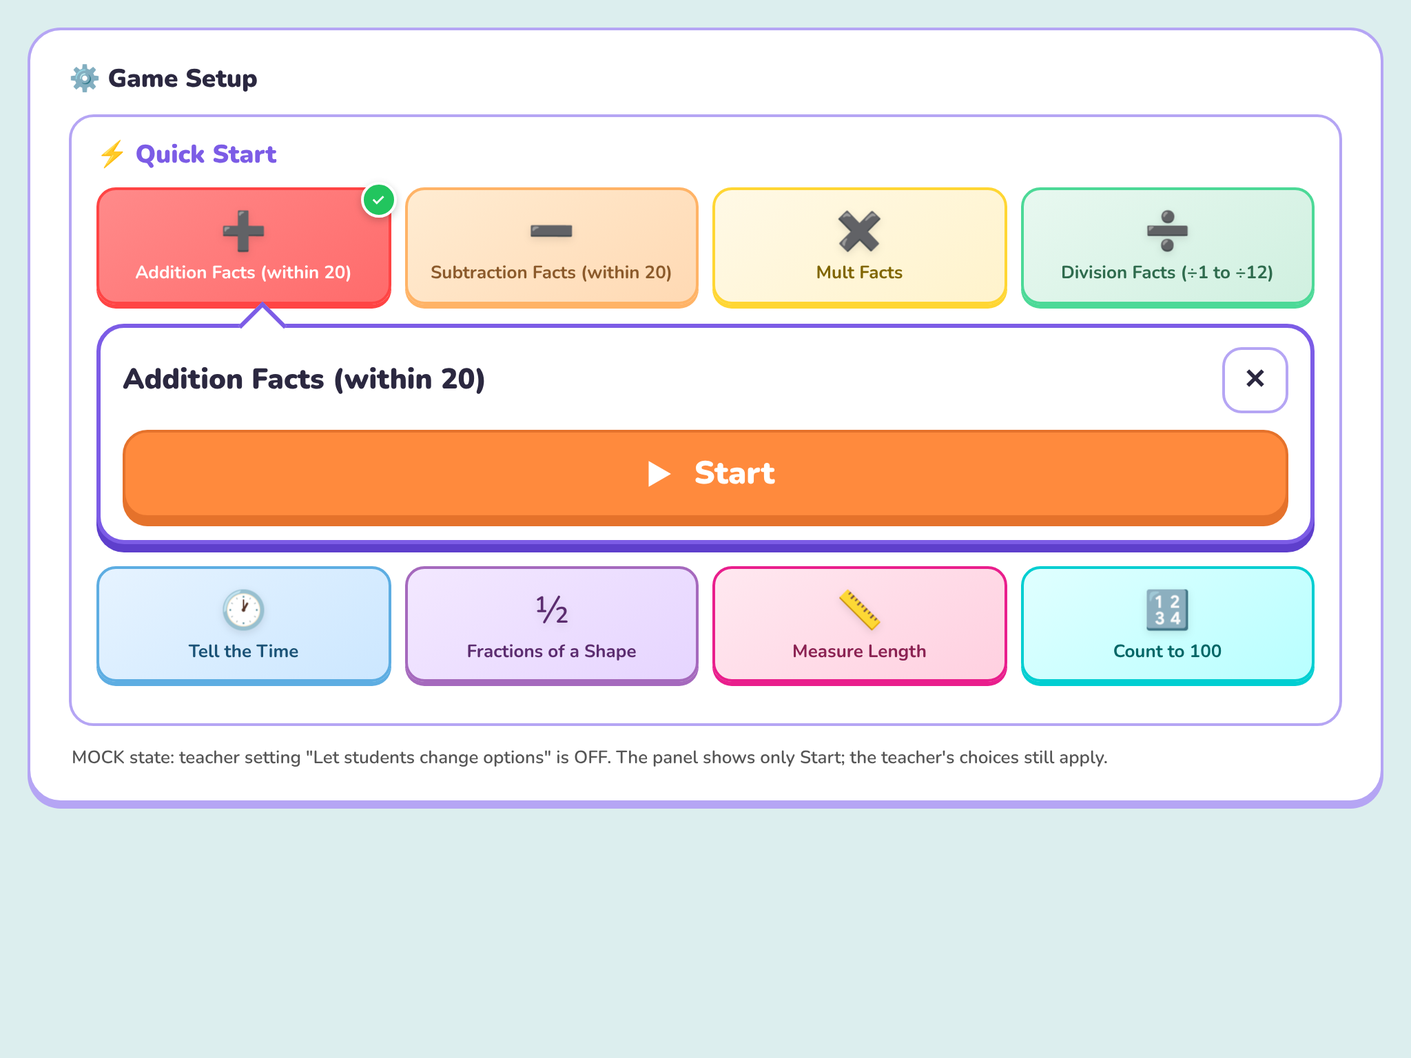
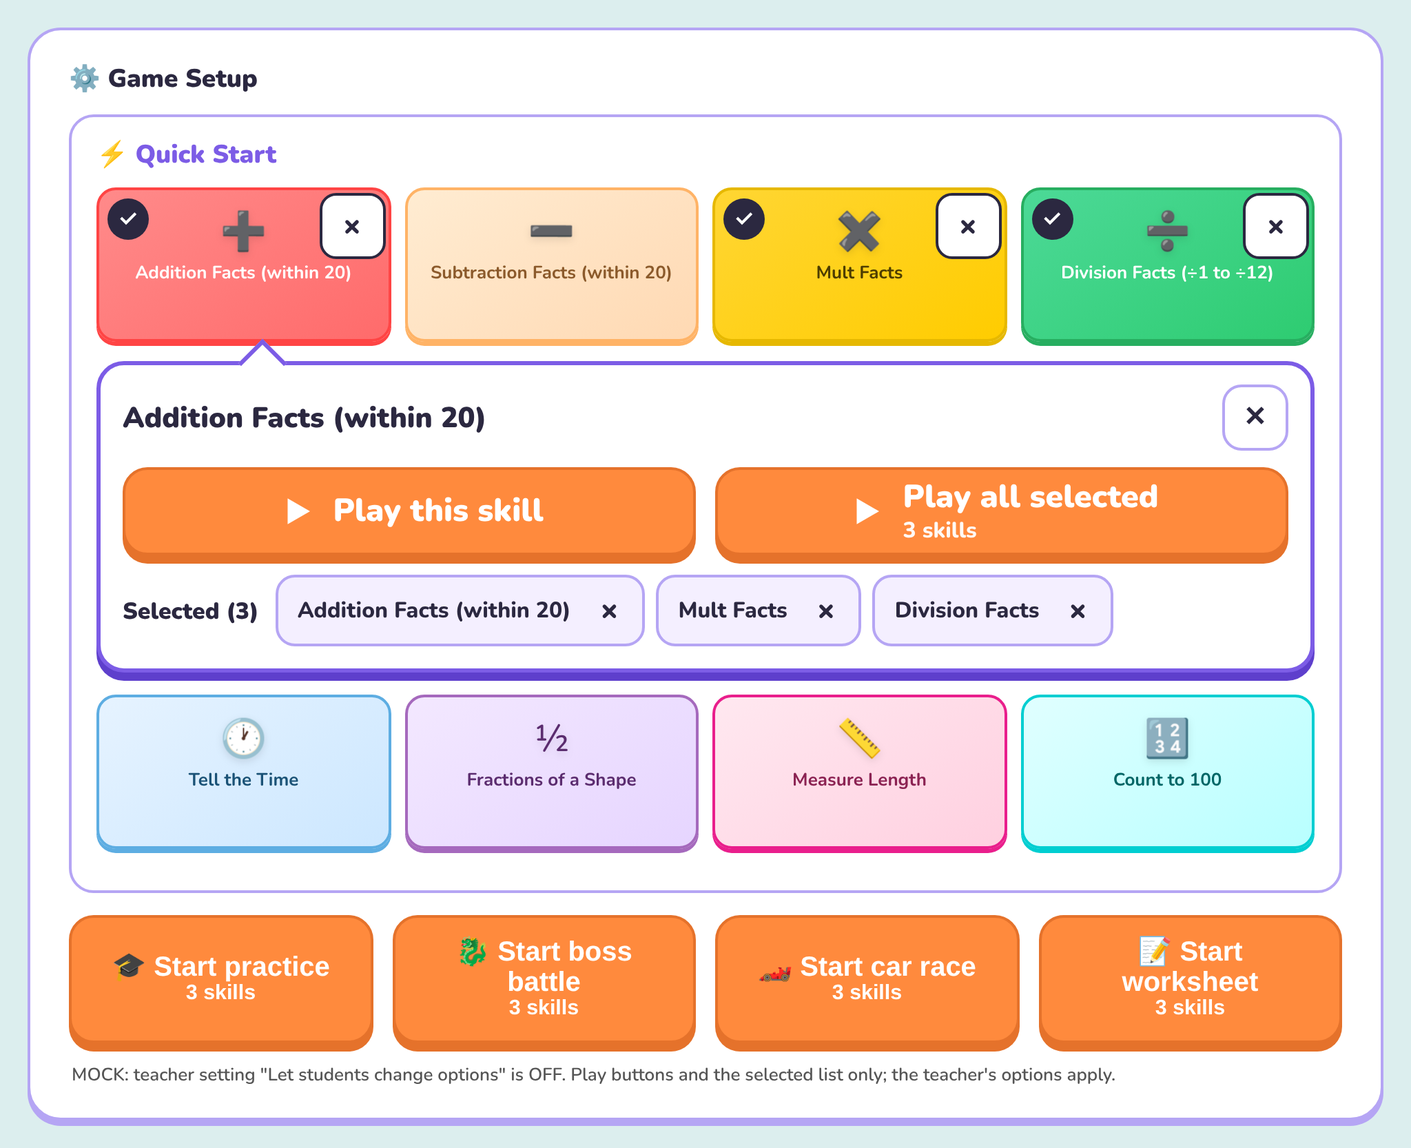
design(student-options): owner rulings 2026-11-14, two Play buttons, folded options
Card records the rulings (Play this skill / Play all selected with N, per-skill
options, easy deselect via card and list, mode buttons show N skills; options
folded by default) and drops the answered question. Mock and PNGs re-shot
(folded, expanded, setting off at 1024 and 1366).

Claude-Session: https://claude.ai/code/session_013pHDnLVzZVKhyoyiPRYBZA

diff --git a/design/status/lf-checks/student-options/mock.html b/design/status/lf-checks/student-options/mock.html
@@ -7,7 +7,7 @@
 <!-- DESIGN MOCK (lf-tools-stuopts, 2026-11-14). Static: it links the app's real stylesheets for the student home
      (brand, variables, base, role-toggle, ui-components, Andika, screen-cell) and adds the proposed .stu-sko rules
      inline below, scoped and additive. The skill is the real addition:add_facts and its real option values
-     (skill-options.js L1065). States: #open (default), #collapsed, #off, #none.  Card: design/cards/student-options/student-options.md -->
+     (skill-options.js L1065). States: #folded (default), #expanded, #off, #none. Three skills are selected (owner rulings 2026-11-14).  Card: design/cards/student-options/student-options.md -->
 <link href="https://fonts.googleapis.com/css2?family=Nunito:wght@400;600;700;800;900&display=swap" rel="stylesheet">
 <link rel="stylesheet" href="../../../../css/brand.css">
 <link rel="stylesheet" href="../../../../css/variables.css">
@@ -42,6 +42,23 @@ body { padding: 20px; }
   border-radius: 18px; box-shadow: 0 6px 0 0 var(--mq-orange-d); cursor: pointer; }
 .stu-sko-start svg { width: 30px; height: 30px; }
 .stu-sko-start:active { transform: translateY(3px); box-shadow: 0 3px 0 0 var(--mq-orange-d); }
+.stu-sko-plays { display: grid; grid-template-columns: 1fr 1fr; gap: 14px; }
+.stu-sko-start { flex-direction: row; }
+.stu-sko-start .sub { display: block; font-size: 1rem; font-weight: 800; opacity: .95; margin-top: 4px; }
+.stu-sko-start .txt { display: flex; flex-direction: column; align-items: flex-start; }
+.stu-sko-sel { display: flex; flex-wrap: wrap; align-items: center; gap: 8px; margin-top: 14px; }
+.stu-sko-sel-h { font-weight: 900; font-size: 1.05rem; margin-right: 4px; }
+.stu-sko-pill { display: inline-flex; align-items: center; gap: 4px; min-height: 48px; padding: 0 0 0 14px; border-radius: 14px;
+  border: 2px solid var(--mq-purple-l); background: var(--mq-purple-soft); font: 800 1rem Nunito, sans-serif; color: var(--mq-ink); }
+.stu-sko-pill button, .qs-x { width: 48px; height: 48px; border: 0; background: transparent; font: 900 1.4rem/1 Nunito, sans-serif; color: var(--mq-ink); cursor: pointer; border-radius: 12px; }
+.qs-x { position: absolute; top: 2px; right: 2px; background: #fff; border: 2px solid var(--mq-ink); z-index: 7; }
+.qs-tick { position: absolute; top: 6px; left: 6px; width: 30px; height: 30px; border-radius: 50%; background: var(--mq-ink); color: #fff;
+  font: 900 1rem/30px Nunito, sans-serif; text-align: center; z-index: 7; }
+.mock-qs .quick-skill-card.selected::after { display: none; }
+.mock-qs .quick-skill-card { min-height: 112px; }
+.mock-modes { display: flex; gap: 14px; margin-top: 16px; flex-wrap: wrap; }
+.mock-modes .student-start-btn { flex: 1 1 200px; max-width: none; display: flex; flex-direction: column; align-items: center; justify-content: center; line-height: 1.1; }
+.mock-modes .student-start-btn small { font-size: .95rem; font-weight: 800; }
 .stu-sko-more { display: flex; align-items: center; gap: 12px; width: 100%; min-height: 56px; margin-top: 16px; padding: 8px 16px;
   background: var(--mq-purple-soft); border: 2px solid var(--mq-purple-l); border-radius: 14px; cursor: pointer;
   font: 800 1.1rem/1.2 Nunito, sans-serif; color: var(--mq-ink); text-align: left; }
@@ -76,17 +93,26 @@ body { padding: 20px; }
     <div class="mock-qs">
       <p class="mock-qs-h">&#9889; Quick Start</p>
       <div id="quickSkillsGrid" class="quick-skills-grid">
-        <div class="quick-skill-card pastel-coral selected" aria-expanded="true" aria-controls="stuSko" id="card0" role="button" tabindex="0"><span class="skill-icon">&#10133;</span><span class="skill-name"><span class="qs-name-text">Addition Facts (within 20)</span></span></div>
+        <div class="quick-skill-card pastel-coral selected" aria-expanded="true" aria-controls="stuSko" id="card0" role="button" tabindex="0"><span class="qs-tick" aria-hidden="true">&#10003;</span><button type="button" class="qs-x" aria-label="Remove Addition Facts">&times;</button><span class="skill-icon">&#10133;</span><span class="skill-name"><span class="qs-name-text">Addition Facts (within 20)</span></span></div>
         <div class="quick-skill-card pastel-peach" role="button" tabindex="0" aria-expanded="false"><span class="skill-icon">&#10134;</span><span class="skill-name"><span class="qs-name-text">Subtraction Facts (within 20)</span></span></div>
-        <div class="quick-skill-card pastel-lemon" role="button" tabindex="0" aria-expanded="false"><span class="skill-icon">&#10006;&#65039;</span><span class="skill-name"><span class="qs-name-text">Mult Facts</span></span></div>
-        <div class="quick-skill-card pastel-mint" role="button" tabindex="0" aria-expanded="false" id="card3"><span class="skill-icon">&#10135;</span><span class="skill-name"><span class="qs-name-text">Division Facts (&divide;1 to &divide;12)</span></span></div>
+        <div class="quick-skill-card pastel-lemon selected" role="button" tabindex="0" aria-expanded="false"><span class="qs-tick" aria-hidden="true">&#10003;</span><button type="button" class="qs-x" aria-label="Remove Mult Facts">&times;</button><span class="skill-icon">&#10006;&#65039;</span><span class="skill-name"><span class="qs-name-text">Mult Facts</span></span></div>
+        <div class="quick-skill-card pastel-mint selected" role="button" tabindex="0" aria-expanded="false" id="card3"><span class="qs-tick" aria-hidden="true">&#10003;</span><button type="button" class="qs-x" aria-label="Remove Division Facts">&times;</button><span class="skill-icon">&#10135;</span><span class="skill-name"><span class="qs-name-text">Division Facts (&divide;1 to &divide;12)</span></span></div>
 
         <section class="stu-sko" id="stuSko" role="region" aria-labelledby="stuSkoTitle">
           <div class="stu-sko-head">
             <h3 class="stu-sko-title" id="stuSkoTitle">Addition Facts (within 20)</h3>
             <button type="button" class="stu-sko-x" aria-label="Close">&times;</button>
           </div>
-          <button type="button" class="stu-sko-start"><svg viewBox="0 0 24 24" fill="currentColor" aria-hidden="true"><path d="M7 4.5v15l13-7.5z"/></svg>Start</button>
+          <div class="stu-sko-plays">
+            <button type="button" class="stu-sko-start" id="playOne"><svg viewBox="0 0 24 24" fill="currentColor" aria-hidden="true"><path d="M7 4.5v15l13-7.5z"/></svg><span class="txt">Play this skill</span></button>
+            <button type="button" class="stu-sko-start" id="playAll"><svg viewBox="0 0 24 24" fill="currentColor" aria-hidden="true"><path d="M7 4.5v15l13-7.5z"/></svg><span class="txt">Play all selected<span class="sub">3 skills</span></span></button>
+          </div>
+          <div class="stu-sko-sel" role="group" aria-label="Selected skills">
+            <span class="stu-sko-sel-h">Selected (3)</span>
+            <span class="stu-sko-pill">Addition Facts (within 20)<button type="button" aria-label="Remove Addition Facts">&times;</button></span>
+            <span class="stu-sko-pill">Mult Facts<button type="button" aria-label="Remove Mult Facts">&times;</button></span>
+            <span class="stu-sko-pill">Division Facts<button type="button" aria-label="Remove Division Facts">&times;</button></span>
+          </div>
 
           <div id="stuSkoOpts">
             <button type="button" class="stu-sko-more" id="stuSkoMore" aria-expanded="true" aria-controls="stuSkoBody">
@@ -132,25 +158,26 @@ body { padding: 20px; }
         <div class="quick-skill-card pastel-aqua" role="button" tabindex="0" aria-expanded="false"><span class="skill-icon">&#128290;</span><span class="skill-name"><span class="qs-name-text">Count to 100</span></span></div>
       </div>
     </div>
+    <div class="mock-modes" role="group" aria-label="Start">
+      <button type="button" class="student-start-btn">&#127891; Start practice<small>3 skills</small></button>
+      <button type="button" class="student-start-btn">&#128009; Start boss battle<small>3 skills</small></button>
+      <button type="button" class="student-start-btn">&#127950;&#65039; Start car race<small>3 skills</small></button>
+      <button type="button" class="student-start-btn">&#128221; Start worksheet<small>3 skills</small></button>
+    </div>
     <p class="mock-note" id="mockNote"></p>
   </div>
 </div>
 <script>
 // Mock state switcher only. #open | #collapsed | #off | #none
 (function () {
-  var s = (location.hash || '#open').slice(1);
+  var st = (location.hash || '#folded').slice(1);
   var more = document.getElementById('stuSkoMore'), body = document.getElementById('stuSkoBody');
   var note = document.getElementById('mockNote');
-  if (s === 'collapsed') { more.setAttribute('aria-expanded', 'false'); body.hidden = true; note.textContent = 'MOCK state: collapsed (the default each time the panel opens). Start is first; the summary line says what is set.'; }
-  else if (s === 'off') { document.getElementById('stuSkoOpts').hidden = true; note.textContent = 'MOCK state: teacher setting "Let students change options" is OFF. The panel shows only Start; the teacher\'s choices still apply.'; }
-  else if (s === 'none') {
-    document.getElementById('stuSkoOpts').hidden = true;
-    document.getElementById('stuSkoTitle').textContent = 'Division Facts (÷1 to ÷12)';
-    document.getElementById('stuSko').style.setProperty('--caret', '86%');
-    document.getElementById('card0').classList.remove('selected'); document.getElementById('card3').classList.add('selected');
-    note.textContent = 'MOCK state: a skill with no pupil options (layout shown on the Division card for illustration only; division facts does have options). Same panel, Start only.';
-  }
-  else note.textContent = 'MOCK state: open, options expanded. Pupil chose Add 7 and 8. Every target is 48 px or more.';
+  function fold() { more.setAttribute('aria-expanded', 'false'); body.hidden = true; }
+  if (st === 'expanded') note.textContent = 'MOCK: options expanded after "Change it". This skill: Add 7 and 8. Each selected skill keeps its own options.';
+  else if (st === 'off') { document.getElementById('stuSkoOpts').hidden = true; note.textContent = 'MOCK: teacher setting "Let students change options" is OFF. Play buttons and the selected list only; the teacher\'s options apply.'; }
+  else if (st === 'none') { document.getElementById('stuSkoOpts').hidden = true; note.textContent = 'MOCK: a skill with no pupil options (illustrated on Addition Facts, which does have options). Play buttons only.'; }
+  else { fold(); note.textContent = 'MOCK: folded (the default each time the panel opens). Three skills selected; tap \u2715 on a card or in the list to remove one. Every target is 48 px or more.'; }
 })();
 </script>
 </body>

diff --git a/design/cards/student-options/student-options.md b/design/cards/student-options/student-options.md
@@ -2,8 +2,15 @@
 
 Lane `lf-tools-stuopts` · step: DESIGN ONLY (no feature code) · 2026-11-14 · Opus medium (first build of a new screen part).
 Status: **unsigned**. A build starts only after the owner signs (CLAUDE.md, cards README).
-Mock: `design/status/lf-checks/student-options/mock.html` (`#open`, `#collapsed`, `#off`, `#none`), screenshots
-`open|collapsed|off-1024.png` and `-1366.png` beside it (768 px tall, deviceScaleFactor 2).
+Mock: `design/status/lf-checks/student-options/mock.html` (`#folded`, `#expanded`, `#off`, `#none`), screenshots
+`folded|expanded|off-1024.png` and `-1366.png` beside it (768 px wide viewport height, full page, deviceScaleFactor 2).
+
+## 0. Owner rulings
+
+| Date | Ruling |
+|---|---|
+| 2026-11-14 | **Two Play buttons.** The panel offers "▶ Play this skill" and "▶ Play all selected (N skills)" with the count. Each selected skill carries its own chosen options. Deselecting must be easy: a visible ✓ / ✕ on each selected skill card, plus a list of the N selected skills, each with ✕. The game-style buttons (Practice / Boss / Race / Worksheet) also play ALL selected skills, each with its own options, and show "N skills". |
+| 2026-11-14 | **Options start FOLDED** behind the summary line every time the panel opens. |
 
 ## 1. Owner request
 
@@ -29,10 +36,14 @@ The panel is a full-width row inserted **in the grid, directly after the row hol
 (`grid-column: 1 / -1`), with a caret pointing at that card. One panel open at a time.
 
 1. **Head**: the skill's pupil name (`qsPupilName`, 1.3rem / 900 Nunito), and a Close button (48 × 48, `×`).
-2. **Start** (the primary action, always first): full width, 72 px tall at 1366, 64 px at 1024, orange
-   (`--mq-orange`, 6 px `--mq-orange-d` press shadow, the existing `.student-start-btn` look), "▶ Start".
-   Plays **this skill** in the pupil's mode (practice) with the options shown.
-3. **"Change it" disclosure** (only when options are allowed AND the skill offers pupil options): a 56 px bar
+2. **Two Play buttons** (the primary actions, always first; owner 2026-11-14), side by side at 1024 and 1366,
+   each ≥ 72 px tall, orange (`--mq-orange`, 6 px `--mq-orange-d` press shadow, the `.student-start-btn` look):
+   - **"▶ Play this skill"**: plays the tapped skill alone, with its options;
+   - **"▶ Play all selected"** with a sub-line **"N skills"**: plays every selected skill, each with its own options.
+     Shown only when N ≥ 2 (with N = 1 it is the same as the first button). Both play practice mode.
+2b. **Selected list** (when N ≥ 2): "Selected (N)" then one chip per selected skill, its pupil name and a ✕ button
+   (48 × 48, `aria-label="Remove <name>"`). ✕ deselects the skill (the queue entry and the card update together).
+3. **"Change it" disclosure, FOLDED by default** (owner 2026-11-14) (only when options are allowed AND the skill offers pupil options): a 56 px bar
    with ⚙, "Change it", the one-line summary from `describeOptions` ("Add 7, 8 · Facts to 20 · Stacked"), and a
    chevron. `aria-expanded` / `aria-controls`.
 4. **Option rows** (inside the disclosure): label (1.1rem / 900) over a row of **chips**. Number values are in
@@ -45,6 +56,11 @@ The panel is a full-width row inserted **in the grid, directly after the row hol
 House style: student page chrome stays Nunito with the brand purple border (`--mq-purple`, `--mq-purple-d` shadow);
 the question-content parts (digits, worked example) use Andika black and white, per `WORKSHEET_DESIGN_STANDARD.md`.
 New CSS lives in a new `css/student-options.css` scoped to `.stu-sko` (additive only).
+
+**Selected cards** (owner 2026-11-14): each selected Quick Start / explorer card shows a ✓ badge and a ✕ button
+(48 × 48, top right, `aria-label="Remove <name>"`). ✕ deselects without opening the panel. Tapping the card body
+opens the panel. The four mode buttons below the grid read "Start practice · 3 skills" and play every selected
+skill with its own options.
 
 ## 4. Which options a pupil sees
 
@@ -65,13 +81,13 @@ over a page: `cover`, `mix`, `nlOn`, page/print-only options, locked options).
 
 | State | When | Shows |
 |---|---|---|
-| **Open, options expanded** (`open-*.png`) | pupil pressed "Change it" | head, Start, disclosure (expanded), rows, reset |
-| **Collapsed** (`collapsed-*.png`) — the default each time the panel opens | tap on a card | head, Start, disclosure bar with summary |
-| **Setting off** (`off-*.png`) | teacher turned "Let students change options" OFF | head and Start only. The teacher's own card options still apply. |
-| **No options** (`#none` in the mock) | `skillHasPupilOptions()` is false | head and Start only (same as setting off) |
+| **Folded** (`folded-*.png`), the default each time the panel opens | tap on a card | head, both Play buttons, selected list with ✕, disclosure bar with summary |
+| **Expanded** (`expanded-*.png`) | pupil pressed "Change it" | as folded, plus the option rows and reset |
+| **Setting off** (`off-*.png`) | teacher turned "Let students change options" OFF | head, Play buttons and selected list only. The teacher's own card options still apply. |
+| **No options** (`#none` in the mock) | `skillHasPupilOptions()` is false | as setting off |
 | Link-locked | the card came from a link with `linkOpts` and Quick Start is locked | as setting off |
 
-Remember the disclosure state per device in `localStorage` (try/catch) only as a convenience; default collapsed.
+The disclosure always opens folded (owner 2026-11-14); it is not remembered.
 
 ## 6. Data flow: choices to the game and to the share code
 
@@ -81,10 +97,11 @@ Remember the disclosure state per device in `localStorage` (try/catch) only as a
    - `write(i, packed)` → `card.pupilOpts = packed` (empty → delete), `saveQuickSkills()`. The teacher's
      `card.opts` is never overwritten by a pupil. Reset deletes `pupilOpts`.
    - Edits go through the shared `applyOptionEdit` so the teacher and pupil panels cannot drift.
-2. **Start**: replace the queue with this one skill —
-   `UnifiedSkills.clear(); UnifiedSkills.add({..., opts: read(i)})` — then `startMode('practice')`. Existing
-   multi-select stays available through the selection row (`studentSelActions`) and the explorer; in the
-   panel, the card's selected state follows the queue as today.
+2. **Selecting** a card adds it to `UnifiedSkills` with `opts: read(i)`; every later edit in the panel writes the
+   card's `pupilOpts` AND updates that queue entry's `opts`, so each selected skill keeps its own options.
+   **Play this skill**: run the game on a one-entry list `[{..., opts: read(i)}]` without clearing the selection.
+   **Play all selected** and the four mode buttons: `startMode(mode)` on the whole queue; each entry already carries
+   its own `opts`. The mode buttons' labels gain "· N skills" (`updateStudentStartCount()` on every queue change).
 3. **Share code**: no codec change. The queue entry carries `opts`; `skill-codes.js` already writes them as the
    `~payload` suffix (only what differs from default), so "Send" from the selection row and any code built from
    the queue carry the pupil's choice. Old codes decode unchanged.
@@ -104,15 +121,15 @@ Remember the disclosure state per device in `localStorage` (try/catch) only as a
 ## 8. Touch, keyboard, focus
 
 - **Targets**: every control in the panel is **≥ 48 × 48 px** at 820, 1024 and 1366 (Close 48, chips 48,
-  disclosure 56, reset 48, Start 64–72). Gap between chips 8 px. No phone width (FASTEST plan rule 7).
+  disclosure 56, reset 48, Play buttons ≥ 72, ✕ buttons 48). Gap between chips 8 px. No phone width (FASTEST plan rule 7).
 - No horizontal scroll at 820 / 1024 / 1366; chip rows wrap.
 - **Keyboard**: cards become `role=button tabindex=0` with `aria-expanded` + `aria-controls="stuSko"`;
-  Enter / Space opens. On open, focus moves to **Start**. Tab order: **Start → Change it → chips row by
-  row → Back to my teacher's choice → Close**. Close is last in tab order though first visually on the right, so a
+  Enter / Space opens. On open, focus moves to **Play this skill**. Tab order: **Play this skill → Play all selected → selected-list ✕ buttons →
+  Change it → chips row by row → Back to my teacher's choice → Close**. Close is last in tab order though first visually on the right, so a
   pupil's first Tab never leaves the panel; Escape closes from anywhere in the panel and returns focus to the card.
 - Radio rows: arrow keys move within the row (roving tabindex); toggle rows: each chip is a tab stop.
 - `:focus-visible` 4 px blue ring, 3 px offset. The summary line is `aria-live="polite"` so a change is read out.
-- Read-aloud: if TTS is on, the panel's Start has the pupil name in its accessible name ("Start Addition Facts").
+- Read-aloud: if TTS is on, "Play this skill" has the pupil name in its accessible name ("Play Addition Facts").
 
 ## 9. Files to change (build step)
 
@@ -120,22 +137,26 @@ Remember the disclosure state per device in `localStorage` (try/catch) only as a
 |---|---|
 | `js/modules/skill-options-ui.js` | `pupilOptionsFor`, `skillHasPupilOptions`, `pupilPanelHTML(hostId, idx, cat, skill)` (chips view of the same defs, same `skoEdit` handlers) |
 | `js/modules/skill-options.js` | optional `pupil`, `pupilLabel`, value `pl` on defs (add_facts first) |
-| `js/modules/quick-skills.js` | host `stu`; student-mode card tap opens the panel (teacher mode unchanged); panel insertion after the card's row; Start handler |
+| `js/modules/quick-skills.js` | host `stu`; student-mode card tap opens the panel (teacher mode unchanged); panel insertion after the card's row; handlers for the two Play buttons, the selected list and the card ✓ / ✕; "N skills" on the mode buttons |
 | `js/modules/student-explorer.js` | same panel for explorer cards (phase 2 if the round is tight) |
 | `js/modules/teacher-shell.js` | the settings row and its click handler |
 | `js/modules/state.js`, `storage.js`, `init.js` | `pupilOptionsAllowed` default true, persisted |
-| `js/globals.js` | window exports for new handlers (`stuSkoOpen`, `stuSkoStart`, `stuSkoClose`) |
+| `js/globals.js` | window exports for new handlers (`stuSkoOpen`, `stuSkoPlayOne`, `stuSkoPlayAll`, `stuSkoDeselect`, `stuSkoClose`) |
 | `css/student-options.css` (new) + `index.html` `<link>` | `.stu-sko*` rules from the mock; then `ws-stamp-assets` |
 
 ## 10. Checks to write first (they fail before the build)
 
 1. `tests/scripts/ws-stu-options.mjs` (Playwright, one browser at a time), at 820×1180, 1024×768, 1366×768:
-   - student mode, tap Addition Facts → `.stu-sko` visible, first focusable is Start, `document.activeElement` is Start;
+   - student mode, tap Addition Facts → `.stu-sko` visible, focus on "Play this skill"; disclosure `aria-expanded=false`;
+   - select 3 skills → "Play all selected" reads "3 skills", the selected list has 3 ✕ buttons, each selected card
+     shows ✓ and ✕, the mode buttons read "3 skills"; ✕ on a list chip and ✕ on a card each drop N to 2;
+   - give skill A `{constant:[7,8]}` and skill B different options → Play all → items from A all add 7 or 8 and B's
+     items honour B's options;
    - every visible control in `.stu-sko` ≥ 48 × 48; no horizontal scroll;
-   - collapsed by default; "Change it" expands; chips for `constant` 0–13 present; teacher-only ids (`cover`, `mix`) absent;
-   - pick 7 and 8 → Start → `state` queue entry opts `{constant:[7,8]}` and the first 10 questions all add 7 or 8;
+   - "Change it" expands; chips for `constant` 0–13 present; teacher-only ids (`cover`, `mix`) absent;
+   - pick 7 and 8 → Play this skill → `state` queue entry opts `{constant:[7,8]}` and the first 10 questions all add 7 or 8;
    - Send link from the selection row contains `~C78`; decoding it restores `{constant:[7,8]}`;
-   - setting OFF (`state.pupilOptionsAllowed=false`) → no `.stu-sko-more`, Start plays with `card.opts` even if `pupilOpts` is set;
+   - setting OFF (`state.pupilOptionsAllowed=false`) → no `.stu-sko-more`, Play this skill plays with `card.opts` even if `pupilOpts` is set;
    - Escape closes and returns focus to the card; Tab cycles inside the panel order of §8;
    - teacher-mode card tap still toggles selection only (no regression); zero console errors.
 2. Unit (node): `pupilOptionsFor('addition','add_facts')` ids = `constant, band, notation, support`; the host
@@ -145,8 +166,6 @@ Remember the disclosure state per device in `localStorage` (try/catch) only as a
 
 ## 11. Open questions for the owner
 
-1. **Start plays one skill.** Recommended: yes — the panel's Start plays the tapped skill alone; picking several
-   still works from the selection row. (Alternative: Start plays the whole selection.)
-2. **Mode.** Recommended: Start = practice; boss / race / worksheet stay on the existing four buttons below.
-3. **Per-class lock in the link.** Recommended: later; the device setting is enough for round 1.
-4. **Support choices for pupils.** Recommended: show them ("Help"), since a pupil asking for touch dots is the point.
+1. **Mode.** Recommended: both Play buttons = practice; boss / race / worksheet stay on the four mode buttons below (which play all selected).
+2. **Per-class lock in the link.** Recommended: later; the device setting is enough for round 1.
+3. **Support choices for pupils.** Recommended: show them ("Help"), since a pupil asking for touch dots is the point.
